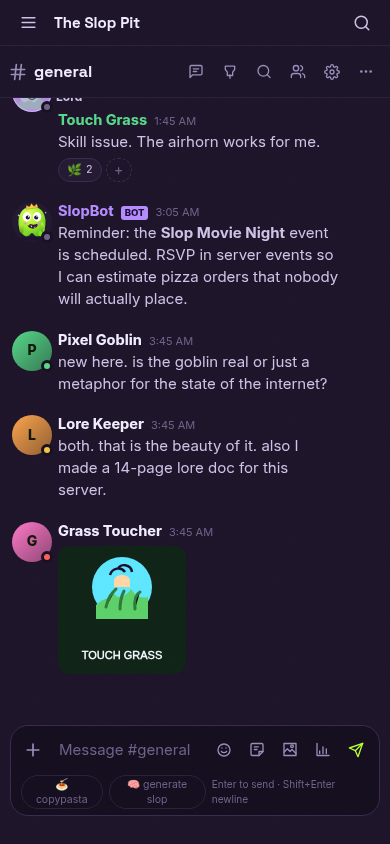
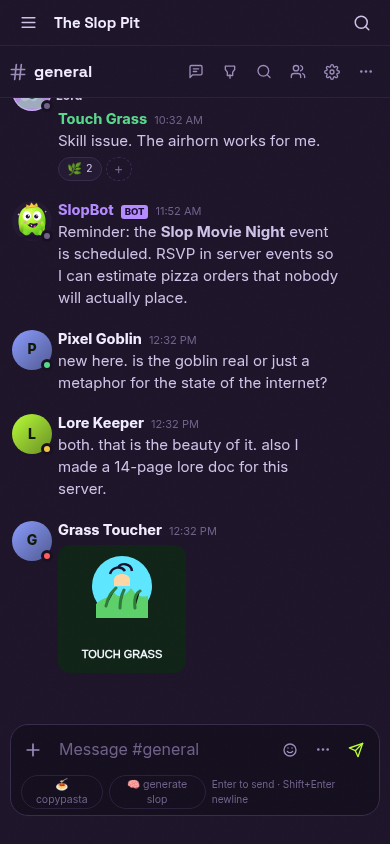
fix(mobile): make auth, home and composer usable on phones
Put the auth card first on phone-width landing pages instead of leaving it
1,100px below the marketing hero. Stack the home hero sticker below the
copy so the intro keeps a readable measure. Use 16px form and composer text
to stop iOS focus zoom, and collapse sticker/meme/poll into a message-tools
menu on narrow screens so the composer input is not squeezed to 149px.

diff --git a/src/client/components/Composer.tsx b/src/client/components/Composer.tsx
@@ -201,9 +201,17 @@ export function Composer({ channel, replyTo, editing, onSent, onCancelReply, onC
         <div class="composer-actions">
           {channel.type === 'dm' || channel.type === 'group_dm' ? <button class={`btn-icon ${e2ee ? 'lock-on' : ''}`} title={canE2ee ? (e2ee ? 'E2EE on' : 'Encrypt this DM (E2EE)') : 'E2EE unavailable'} onClick={toggleE2ee}><Icon name={e2ee ? 'lock' : 'unlock'} size={17} /></button> : null}
           <button class="btn-icon" title="Emoji" onClick={() => setEmojiOpen((v) => !v)}><Icon name="smile" size={18} /></button>
-          <button class="btn-icon" title="Sticker" onClick={() => setEmojiOpen((v) => !v)}><Icon name="sticker" size={17} /></button>
-          <button class="btn-icon" title="Meme" onClick={() => setMemeOpen((v) => !v)}><Icon name="image" size={17} /></button>
-          <button class="btn-icon" title="Poll" onClick={() => setPollOpen(true)}><Icon name="poll" size={17} /></button>
+          <button class="btn-icon secondary" title="Sticker" onClick={() => setEmojiOpen((v) => !v)}><Icon name="sticker" size={17} /></button>
+          <button class="btn-icon secondary" title="Meme" onClick={() => setMemeOpen((v) => !v)}><Icon name="image" size={17} /></button>
+          <button class="btn-icon secondary" title="Poll" onClick={() => setPollOpen(true)}><Icon name="poll" size={17} /></button>
+          <button class="btn-icon composer-more" title="More message tools" onClick={(e) => {
+            const r = e.currentTarget.getBoundingClientRect();
+            store.openMenu({ clientX: r.left, clientY: r.bottom }, [
+              { label: 'Sticker', icon: 'sticker', action: () => setEmojiOpen(true) },
+              { label: 'Meme', icon: 'image', action: () => setMemeOpen(true) },
+              { label: 'Poll', icon: 'poll', action: () => setPollOpen(true) },
+            ], 'Message tools');
+          }}><Icon name="more" size={17} /></button>
           <button class="btn-icon send" title="Send (Enter)" disabled={sending || uploading > 0} onClick={() => void send()}><Icon name={sending ? 'refresh' : 'send'} size={18} /></button>
         </div>
       </div>

diff --git a/src/client/styles/chat.css b/src/client/styles/chat.css
@@ -133,6 +133,7 @@
 .composer-actions .btn-icon.send { color: var(--accent); }
 .composer-actions .btn-icon.send:hover { background: var(--accent); color: var(--accent-ink); }
 .composer-actions .btn-icon.lock-on { color: var(--success); background: color-mix(in srgb, var(--success) 14%, transparent); }
+.composer-actions .composer-more { display: none; }
 .composer-tools { display: flex; gap: 6px; align-items: center; padding: 2px 10px 6px; }
 .composer-tools .tool-chip { font-size: 10.5px; color: var(--faint); border: 1px solid var(--border-soft); border-radius: 99px; padding: 1px 7px; }
 .composer-tools .tool-chip:hover { color: var(--text-soft); border-color: var(--muted); }
@@ -232,6 +233,11 @@
   .message .msg-gutter { display: none; }
   .message .msg-avatar-col { width: 34px; }
   .message .msg-avatar-col .avatar { width: 34px; height: 34px; }
+}
+@media (max-width: 720px) {
+  .composer-input, .search-bar input, .cmd-input input { font-size: 16px; }
+  .composer-actions .secondary { display: none; }
+  .composer-actions .composer-more { display: inline-flex; }
 }
 .md-image { max-width: min(420px, 100%); border-radius: var(--radius); border: 1px solid var(--border); margin: 6px 0; display: block; cursor: zoom-in; background: var(--bg-void); }
 .md-image:hover { border-color: var(--muted); }

diff --git a/src/client/styles/app.css b/src/client/styles/app.css
@@ -232,9 +232,10 @@
   .mobile-bar .mobile-title { font-weight: 750; font-family: var(--font-display); flex: 1; min-width: 0; overflow: hidden; text-overflow: ellipsis; white-space: nowrap; }
   .home-grid { grid-template-columns: 1fr; }
   .home-container { padding: 20px 14px 40px; }
-  .home-hero { padding: 16px; gap: 12px; }
+  .home-hero { padding: 16px; gap: 12px; flex-wrap: wrap; align-items: flex-start; }
   .home-hero .hero-mascot { width: 64px; height: 64px; }
   .home-hero h1 { font-size: 23px; }
+  .home-hero .card-sticker { flex-basis: 100%; width: 100%; max-width: none !important; }
   .modal-backdrop { padding: 8px; align-items: flex-end; }
   .modal { max-height: 94vh; border-radius: var(--radius-lg) var(--radius-lg) 0 0; }
   .modal.wide, .modal.xwide { width: 100%; height: 94vh; }

diff --git a/src/client/styles/components.css b/src/client/styles/components.css
@@ -22,6 +22,9 @@
 
 /* ---- Inputs ---- */
 .input, .textarea, .select { width: 100%; background: var(--bg-input); border: 1px solid var(--border); border-radius: var(--radius); padding: 10px 12px; font-size: 14px; color: var(--text); transition: border-color .12s, box-shadow .12s; }
+@media (max-width: 720px) {
+  .input, .textarea, .select { font-size: 16px; }
+}
 .input::placeholder, .textarea::placeholder { color: var(--faint); }
 .input:focus, .textarea:focus, .select:focus { outline: none; border-color: var(--accent); box-shadow: 0 0 0 3px rgba(184,255,53,.13); }
 [data-theme='light'] .input:focus, [data-theme='light'] .textarea:focus { box-shadow: 0 0 0 3px rgba(107,33,216,.12); }

diff --git a/src/client/styles/landing.css b/src/client/styles/landing.css
@@ -62,8 +62,13 @@
   .landing-left { min-height: auto; padding: 30px 22px; }
   .landing-memes { display: none; }
 }
+@media (max-width: 720px) {
+  .landing-right { order: -1; min-height: auto; border-top: 0; border-bottom: 1px solid var(--border); padding: 18px 12px 28px; }
+  .landing-left { padding: 44px 18px 32px; gap: 22px; }
+  .auth-card .auth-mascot { width: 44px; height: 44px; margin-bottom: 10px; }
+}
 @media (max-width: 600px) {
   .feature-grid { grid-template-columns: 1fr; }
   .landing-title { font-size: clamp(34px, 10vw, 52px); }
-  .auth-card { padding: 22px; border-radius: var(--radius-lg); }
+  .auth-card { padding: 20px; border-radius: var(--radius-lg); }
 }
